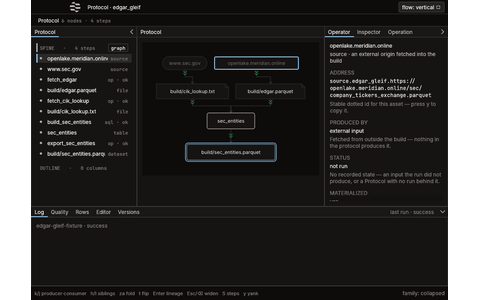
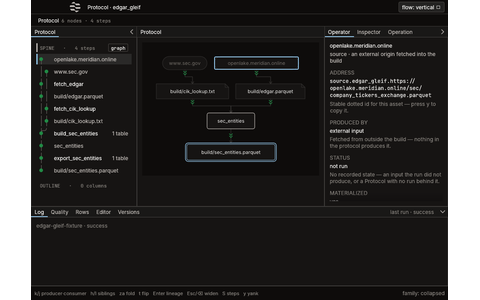
Tests outside the gate read the step row's marks and outputs, and its baselines are redrawn
The end-to-end tests that read a spine row's kind or marker now read the
step row's mark, the model's output, or the model's markers. A step's
status on the first screen is its not-run mark, so the ledger strip is the
one place that draws the words. Each row the step row draws is named as a
control, with its fold control, since the step row senses a click on both.
The baselines that show the navigator rail are redrawn on the Mac Studio.

Changed region(s): [[0.0625, 0.18, 0.2812, 0.63], [0.0625, 0.6, 0.125, 0.63]]

diff --git a/crates/brightfield-shell/tests/one_step_protocol.rs b/crates/brightfield-shell/tests/one_step_protocol.rs
@@ -53,6 +53,7 @@ use brightfield_protocol::layout::Flow;
 use brightfield_shell::dashboard::{ChosenBy, Dashboard};
 use brightfield_shell::design::Mode;
 use brightfield_shell::one_step::{self, OneStepProtocol};
+use brightfield_shell::protocol::SpineRole;
 use brightfield_shell::startup::{default_layout, opening_boot};
 use brightfield_shell::window::{Boot, MeridianApp};
 use brightfield_shell::{data_file, protocol};
@@ -2153,20 +2154,22 @@ fn clicking_log_on_the_strip_opens_the_rail_on_the_not_run_empty_state() {
 /// **The strip reads the run and the spine reads the step, on one screen.**
 ///
 /// AC5 and the one-place clause. Hugh ruled on 2026-09-11, from the running
-/// app, that both stay: the navigator spine's step row keeps `sql · not run`
-/// as the STEP's status, and the ledger strip reads `last run · not run` as
-/// the RUN's state. So this asserts the two together, and asserts that nothing
-/// else on the first screen draws those words a third time.
+/// app, that both stay: the navigator spine's step row keeps the STEP's
+/// status, and the ledger strip reads `last run \u{b7} not run` as the RUN's
+/// state. The step row now carries that status as its mark, the not-run glyph
+/// a screen reader names, rather than as words, so the words are drawn in one
+/// place: this asserts the mark, and that nothing else on the first screen
+/// draws the words a second time.
 ///
 /// **The negative is counted over the whole frame, not searched band by
 /// band.** A band-by-band search passes when it looks in the wrong place, and
 /// a region that draws no rect this frame — the status band is an overlay and
 /// has one only when it has a line to draw — would be skipped silently by one.
 /// Counting every galley the frame paints instead, and then placing each of
-/// them, cannot be vacuous: two galleys carry the words, one is inside the
-/// ledger rail and one inside the navigator rail, so no third place has them.
-/// The named bands are read after that, because the count says how many there
-/// are and these say a particular band is not where one of them went.
+/// them, cannot be vacuous: one galley carries the words and it is inside the
+/// ledger rail, so no other place has them. The named bands are read after
+/// that, because the count says how many there are and these say a particular
+/// band is not where one of them went.
 #[test]
 fn the_strip_reads_the_run_and_the_spine_reads_the_step() {
     use brightfield_workbench::arrangement::{
@@ -2193,12 +2196,24 @@ fn the_strip_reads_the_run_and_the_spine_reads_the_step() {
         .app
         .region_rect(NAVIGATOR_RAIL)
         .expect("the navigator rail drew");
-    let spine_words = win.drawn_text_in(spine);
+    let step = win
+        .app
+        .spine_rows()
+        .iter()
+        .find(|row| row.role == SpineRole::Step)
+        .expect("the navigator spine drew a step row");
+    assert_eq!(
+        step.mark,
+        Some(meridian_egui::StepMark::NotRun),
+        "the navigator spine's step row is marked {:?}, which does not carry \
+         the step's own status — the sibling card's AC1 pinned it there and \
+         this card leaves it",
+        step.mark
+    );
     assert!(
-        spine_words.iter().any(|w| w == "sql \u{b7} not run"),
-        "the navigator spine drew {spine_words:?}, which does not carry the \
-         step's own status — the sibling card's AC1 pinned it there and this \
-         card leaves it"
+        spine.contains_rect(step.rect),
+        "the step row at {:?} is outside the navigator rail at {spine:?}",
+        step.rect
     );
 
     let whole: Vec<String> = win
@@ -2208,18 +2223,15 @@ fn the_strip_reads_the_run_and_the_spine_reads_the_step() {
         .collect();
     assert_eq!(
         whole.len(),
-        2,
+        1,
         "the first screen drew {whole:?} — the run's state belongs to the \
-         ledger strip and the step's to the spine's step row, so a third \
-         galley carrying the words is a second place drawing the state"
+         ledger strip and the step's to the spine's mark, so a second galley \
+         carrying the words is a second place drawing the state"
     );
     let in_ledger = strip_words.iter().filter(|w| w.contains("not run")).count();
-    let in_spine = spine_words.iter().filter(|w| w.contains("not run")).count();
     assert_eq!(
-        (in_ledger, in_spine),
-        (1, 1),
-        "the two galleys reading `not run` are not one in the ledger rail and \
-         one in the navigator rail: {in_ledger} and {in_spine}"
+        in_ledger, 1,
+        "the one galley reading `not run` is not in the ledger rail: {whole:?}"
     );
 
     // …and the bands the contract names, each read by its own rect. The title

diff --git a/crates/brightfield-shell/tests/run_control.rs b/crates/brightfield-shell/tests/run_control.rs
@@ -212,14 +212,14 @@ impl Window {
         self.text_in(summary)
     }
 
-    /// The kind column of the spine's step row for [`STEP`].
-    fn step_row_kind(&mut self) -> String {
+    /// The state mark the spine's step row for [`STEP`] drew.
+    fn step_row_mark(&mut self) -> Option<meridian_egui::StepMark> {
         self.frame(Vec::new());
         self.app
             .spine_rows()
             .iter()
             .find(|row| row.role == SpineRole::Step && row.label == STEP)
-            .map(|row| row.kind.clone())
+            .map(|row| row.mark)
             .unwrap_or_else(|| panic!("the spine drew no step row for {STEP}"))
     }
 
@@ -421,7 +421,7 @@ fn taking_run_writes_the_record_where_arc_writes_it() {
         "the strip reads {before:?} before any run"
     );
     assert!(
-        win.step_row_kind().contains("not run"),
+        (win.step_row_mark() == Some(meridian_egui::StepMark::NotRun)),
         "the step row reads a state before any run"
     );
 
@@ -457,10 +457,11 @@ fn taking_run_writes_the_record_where_arc_writes_it() {
         after.iter().all(|t| !t.contains("not run")),
         "after the run the strip still reads not run: {after:?}"
     );
-    let kind = win.step_row_kind();
-    assert!(
-        kind.contains("ok") && !kind.contains("not run"),
-        "after the run the step row reads {kind:?}"
+    let mark = win.step_row_mark();
+    assert_eq!(
+        mark,
+        Some(meridian_egui::StepMark::Ok),
+        "after the run the step row is marked {mark:?}"
     );
 
     for (index, pane) in [(0, "Log"), (1, "Quality")] {
@@ -612,10 +613,11 @@ fn a_second_launch_reads_the_record_the_first_run_wrote() {
             .any(|t| t.contains("last run") && t.contains("success")),
         "a second launch on the same file reads {summary:?}"
     );
-    let kind = second.step_row_kind();
-    assert!(
-        kind.contains("ok") && !kind.contains("not run"),
-        "a second launch's step row reads {kind:?}"
+    let mark = second.step_row_mark();
+    assert_eq!(
+        mark,
+        Some(meridian_egui::StepMark::Ok),
+        "a second launch's step row is marked {mark:?}"
     );
     assert_eq!(
         records(dir.path()).len(),
@@ -745,7 +747,7 @@ fn a_record_whose_steps_are_not_this_protocols_is_not_read_as_its_run() {
         "a record of other steps was read as this Protocol's run: the strip reads {summary:?}"
     );
     assert!(
-        win.step_row_kind().contains("not run"),
+        (win.step_row_mark() == Some(meridian_egui::StepMark::NotRun)),
         "a record of other steps set the step row"
     );
 }

diff --git a/crates/brightfield-shell/src/protocol.rs b/crates/brightfield-shell/src/protocol.rs
@@ -4650,8 +4650,8 @@ impl Item<ProtocolDoc> for OutlinePane {
                 let listed = spine_list_ui(ui, &spine, &style, cx.mode);
                 graph_picked = listed.graph_picked;
                 // A fold control folds the spine's own list, the one list that
-                // draws it, picking or not: the pick dresses rows by their
-                // tables, which a fold leaves as they are.
+                // draws it. While the spine picks, a family's row is not a
+                // table, so it is muted and its control drawn disabled with it.
                 if style.folds {
                     fold_family = listed
                         .fold_clicked
@@ -4801,9 +4801,9 @@ pub struct SpineListStyle<'a> {
     /// a table for an operation, when each row that is not a table is.
     pub muted: &'a dyn Fn(&SpineRow) -> bool,
     /// Whether a family's row draws its fold control: only where a click on
-    /// it is answered, on the document's own spine. Elsewhere a family's row
-    /// draws no control and no member count, since the step row draws the
-    /// count only as part of the control.
+    /// it is answered, on the document's own spine, where a muted row draws it
+    /// disabled. Elsewhere a family's row draws no control and no member
+    /// count, since the step row draws the count only as part of the control.
     pub folds: bool,
 }
 

diff --git a/crates/brightfield-shell/tests/typed_sql_baseline.rs b/crates/brightfield-shell/tests/typed_sql_baseline.rs
@@ -18,7 +18,7 @@ use std::path::PathBuf;
 use std::time::Duration;
 
 use brightfield_shell::design::Mode;
-use brightfield_shell::protocol::SpineMarker;
+use brightfield_shell::protocol::NOT_RECORDED;
 use brightfield_shell::starts;
 use brightfield_shell::window::{Boot, MeridianApp};
 
@@ -140,10 +140,7 @@ fn capture(mode: Mode, name: &str, keep: bool) -> (image::RgbaImage, Seen) {
             seen = Seen {
                 card: app.typed_card_rect(),
                 grid: app.canvas_panes().pane("grid").map(|p| p.rect),
-                unrecorded: app
-                    .spine_rows()
-                    .iter()
-                    .any(|r| r.marker == SpineMarker::Unrecorded),
+                unrecorded: app.spine_rows().iter().any(|r| r.kind == NOT_RECORDED),
                 statement: app.typed_statement().map(str::to_owned),
             };
             settled(app)
@@ -185,7 +182,7 @@ fn spine_surface(mode: Mode, name: &str) {
     assert_eq!(seen.statement, None, "{name}: the statement was not kept");
     assert!(
         seen.unrecorded,
-        "{name}: no spine row carries the not-recorded mark"
+        "{name}: no spine row says it is not recorded"
     );
     egui_kittest::image_snapshot(&image, name);
 }

diff --git a/crates/brightfield-shell/tests/typed_sql_end_to_end.rs b/crates/brightfield-shell/tests/typed_sql_end_to_end.rs
@@ -389,20 +389,24 @@ impl Window {
             .collect()
     }
 
-    /// The markers of the spine rows labelled `label`.
+    /// The existence markers of the spine rows labelled `label`: the model's
+    /// account of them, since the list draws a state mark in their place.
     fn markers_of(&self, label: &str) -> Vec<SpineMarker> {
         self.app
-            .spine_rows()
+            .protocol_model()
+            .spine()
             .iter()
             .filter(|r| r.label == label)
             .map(|r| r.marker)
             .collect()
     }
 
-    /// The marker of the spine's asset row labelled `label`: the table.
+    /// The existence marker of the spine's asset row labelled `label`, the
+    /// table, as the model holds it.
     fn table_marker(&self, label: &str) -> SpineMarker {
         self.app
-            .spine_rows()
+            .protocol_model()
+            .spine()
             .iter()
             .find(|r| r.role == SpineRole::Asset && r.label == label)
             .unwrap_or_else(|| panic!("the spine drew no table {label}"))

diff --git a/crates/brightfield-shell/src/window.rs b/crates/brightfield-shell/src/window.rs
@@ -12772,8 +12772,18 @@ impl MeridianApp {
             controls.extend(strip.controls.iter().cloned());
         }
         for row in &self.protocol.doc.spine_drawn {
-            if row.control {
+            // A spine row is drawn by the step row, which senses a click on the
+            // whole row whether or not the row answers one, and on its fold
+            // control, which it names by the row's label: so each is named.
+            let step_row = matches!(
+                row.role,
+                SpineRole::Asset | SpineRole::Step | SpineRole::View | SpineRole::Model
+            );
+            if row.control || step_row {
                 controls.push(chrome::NamedControl::labelled(row.rect, &row.label));
+            }
+            if let Some(fold) = row.fold_rect {
+                controls.push(chrome::NamedControl::labelled(fold, &row.label));
             }
             if let Some(chip) = row.chip {
                 controls.push(chrome::NamedControl::hovered(chip.rect, chip.hint));

diff --git a/crates/brightfield-shell/tests/typed_sql_save.rs b/crates/brightfield-shell/tests/typed_sql_save.rs
@@ -372,10 +372,12 @@ impl Window {
             .collect()
     }
 
-    /// The markers of the spine rows labelled `label`.
+    /// The existence markers of the spine rows labelled `label`: the model's
+    /// account of them, since the list draws a state mark in their place.
     fn markers_of(&self, label: &str) -> Vec<SpineMarker> {
         self.app
-            .spine_rows()
+            .protocol_model()
+            .spine()
             .iter()
             .filter(|r| r.label == label)
             .map(|r| r.marker)

diff --git a/crates/brightfield-shell/tests/typed_sql_keep.rs b/crates/brightfield-shell/tests/typed_sql_keep.rs
@@ -362,7 +362,7 @@ fn cmd_enter_keeps_a_statement_as_a_new_step_in_front() {
         w.app
             .spine_rows()
             .iter()
-            .any(|r| r.label == STEP && r.kind == "table \u{b7} 52 rows")
+            .any(|r| r.label == STEP && r.kind == "52 rows")
     });
     let at = |label: &str| {
         win.app
